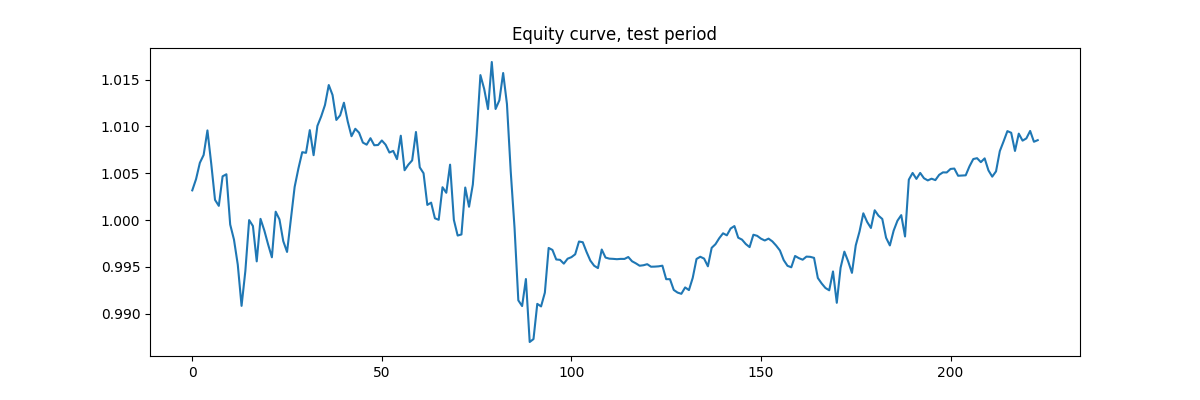
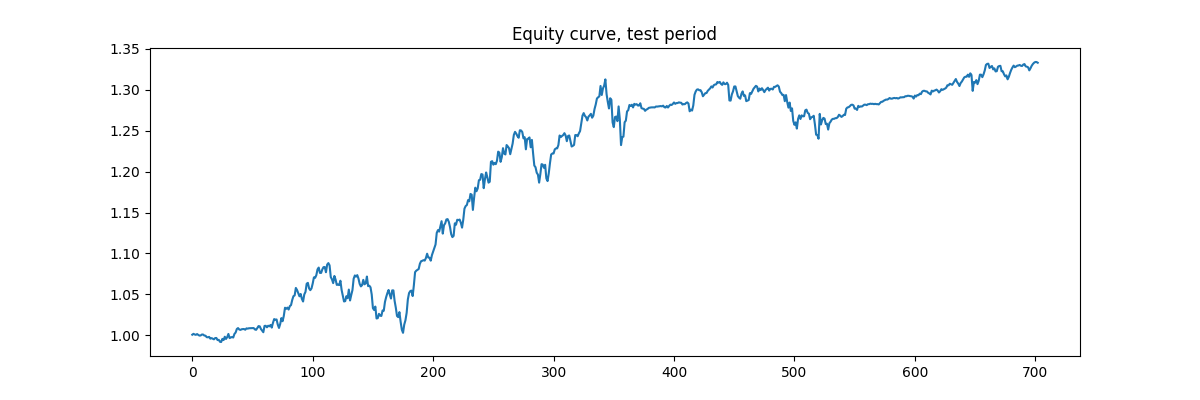
commit

diff --git a/hedge_env_LSTM.py b/hedge_env_LSTM.py
@@ -52,7 +52,7 @@ class HedgeEnv(gym.Env):
         action = np.clip(action.item(), -self.a_max, self.a_max)
         trade = action - self.prev_action
         ct = self.phi*abs(trade) + 0.5*self.psi*trade**2
-        lev = 0.001*action**2
+        lev = 0.0001*action**2
         reward = - ct - self.lam*trade*action-lev
         for _ in range(self.rebalance_freq):
             reward += action * self.y[self.t].item()
@@ -64,11 +64,11 @@ class HedgeEnv(gym.Env):
         self.obs = self.update_obs()
         return self.obs.numpy(), reward * 1e4, terminated, False, {}
 
-"""env = HedgeEnv(window,n_features,X_train,y_train,a_max)
+env = HedgeEnv(window,n_features,X_train,y_train,a_max)
 policy_kwargs = dict(lstm_hidden_size=64,n_lstm_layers=1,net_arch=dict(vf=[64],pf=[64]))
 model = RecurrentPPO("MlpLstmPolicy",env,device="cpu",tensorboard_log="./tensorboard/",policy_kwargs = policy_kwargs,verbose=1,learning_rate=1e-4,n_steps=4096,gae_lambda=0.95,batch_size=64,ent_coef=0.01)
-model.learn(total_timesteps=50_000,tb_log_name="lstm_hedging")
-model.save("lstm_hedging")"""
+model.learn(total_timesteps=75_000,tb_log_name="lstm_hedging")
+model.save("lstm_hedging")
 model = RecurrentPPO.load("lstm_hedging")
 class HedgeEnvEval(HedgeEnv):
     def reset(self, seed=None, options=None):
@@ -98,7 +98,7 @@ class HedgeEnvEval(HedgeEnv):
         terminated = self.t >= len(self.y) - 1
         return obs, period_rew, terminated, False, {}
 
-test_env = HedgeEnvEval(window, n_features, X_valid, y_valid, a_max)
+test_env = HedgeEnvEval(window, n_features, X_test, y_test, a_max)
 obs, _ = test_env.reset()
 done = False
 rewards, actions = [], []
@@ -140,7 +140,7 @@ plt.savefig("equity.png")
 plt.show()
 
 actions = np.array(actions)
-y_test_realized = y_valid.numpy()[window - 1: window - 1 + len(actions)] # align lengths
+y_test_realized = y_test.numpy()[window - 1: window - 1 + len(actions)] # align lengths
 corr = np.corrcoef(actions, y_test_realized)[0,1]
 print("Correlation(action, forward return):", corr)
 